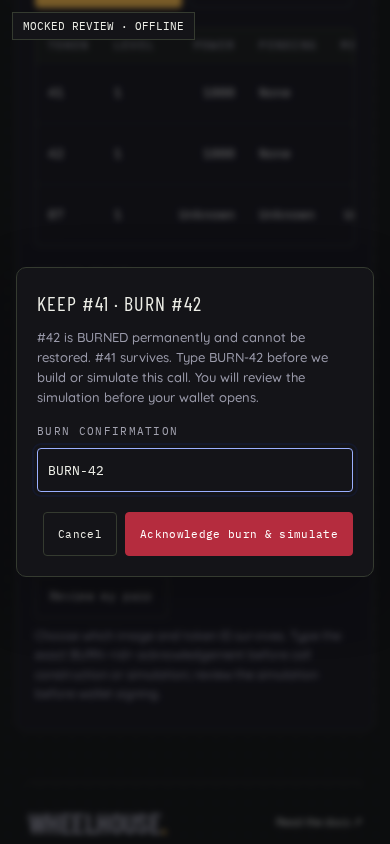
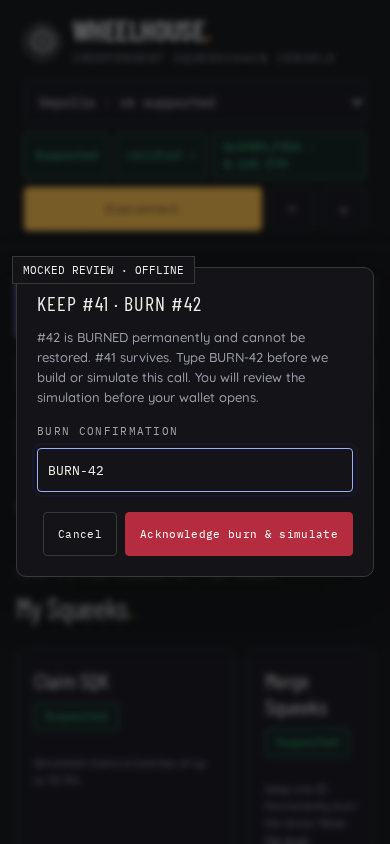
Record Phase 0 live pass and polish mobile review layouts

diff --git a/web/app.js b/web/app.js
@@ -268,7 +268,7 @@ export function mount({ doc = document, win = window, adapterFactory, fetcher = 
     renderToolOptions();
     void refreshTelemetry();
     if (!state.adapter) {
-      showBanner(getProfile(state.profileKey).notes + (state.busy ? " A prior wallet request may still complete; check that wallet before retrying." : ""), "warn");
+      if (state.busy) showBanner("A prior wallet request may still complete; check that wallet before retrying.", "warn");
       return;
     }
     await refreshAll();
@@ -280,7 +280,12 @@ export function mount({ doc = document, win = window, adapterFactory, fetcher = 
     $("not-deployed").classList.toggle("hidden", deployed);
     $("not-deployed-note").textContent = deployed ? "" : getProfile(state.profileKey).notes;
     for (const node of [el.connect, el.refresh, ...doc.querySelectorAll('[data-go], .rpc-settings')]) node.classList.toggle("hidden", !deployed);
-    if (!deployed) el.panels.forEach(panel => panel.classList.add("hidden"));
+    el.verified.classList.toggle('hidden', !deployed);
+    doc.querySelector('.network-strip').classList.toggle('hidden', !deployed);
+    if (!deployed) {
+      el.panels.forEach(panel => panel.classList.add("hidden"));
+      updateHeroVisibility(null);
+    }
     else selectTab(store.get("squeekchain:tab") ?? "overview");
   }
 
@@ -921,9 +926,15 @@ export function mount({ doc = document, win = window, adapterFactory, fetcher = 
     }
   }
 
+  function updateHeroVisibility(tab) {
+    const show = tab === 'overview' && Boolean(getProfile(state.profileKey).addresses);
+    for (const node of doc.querySelectorAll('.hero, .page-intro')) node.classList.toggle('hidden', !show);
+  }
+
   // ── tabs + wiring ─────────────────────────────────────────────────────────
   function selectTab(name) {
     if (!el.panels.some(p => p.dataset.panel === name)) name = "overview";
+    updateHeroVisibility(name);
     el.tabs.forEach((t) => t.setAttribute("aria-selected", String(t.dataset.tab === name)));
     el.panels.forEach((p) => p.classList.toggle("hidden", p.dataset.panel !== name));
     store.set("squeekchain:tab", name);
@@ -1041,8 +1052,7 @@ export function mount({ doc = document, win = window, adapterFactory, fetcher = 
   state.adapter = buildAdapter(state.profileKey);
   renderNetworkPlaceholder();
   renderDeploymentVisibility();
-  if (!state.adapter) showBanner(getProfile(state.profileKey).notes, "warn");
-  else refreshAll().then(() => { if (!destroyed) renderToolOptions(); });
+  if (state.adapter) refreshAll().then(() => { if (!destroyed) renderToolOptions(); });
   void refreshTelemetry();
   renderActivity(activity.list());
   void activity.refresh();

diff --git a/web/styles.css b/web/styles.css
@@ -492,3 +492,33 @@ footer > p.label { font-size: var(--sqk-caption-size); letter-spacing: .03em; }
 .toasts { max-width: min(380px, calc(100vw - 32px)); }
 .toast { overflow-wrap: anywhere; }
 .modal-box [for="modal-input"] { display: block; margin-top: var(--sqk-s2); }
+
+/* Review polish: deterministic control rows, compact task views, readable token cards. */
+.header-links, .header-badges, .wallet-controls, .wallet-control { display: flex; align-items: center; gap: 8px; }
+.header-badges { min-width: 0; }
+.wallet-control { min-width: 0; }
+.hero p { max-width: 50ch; }
+@media (max-width: 760px) {
+  .topbar { gap: 12px; }
+  .toolbar { display: grid; grid-template-columns: minmax(0, 1fr); gap: 8px; width: 100%; }
+  .header-links { display: none; }
+  #profile-select { width: 100%; max-width: none; }
+  .header-badges { display: grid; grid-template-columns: auto auto minmax(0, 1fr); align-items: stretch; gap: 6px; }
+  .header-badges .chip { min-width: 0; max-width: 100%; display: flex; align-items: center; }
+  .wallet-controls { display: grid; grid-template-columns: minmax(0, 1fr) 44px 44px; align-items: end; gap: 8px; }
+  .wallet-controls:has(#btn-refresh.hidden) { grid-template-columns: minmax(0, 1fr) 44px; }
+  .wallet-control { display: flex; flex-direction: column; align-items: stretch; gap: 4px; }
+  #wallet-chip { white-space: normal; overflow-wrap: anywhere; }
+  #btn-connect { justify-content: center; }
+  .wallet-controls > .btn.icon { width: 44px; height: 44px; padding: 0; }
+}
+@media (max-width: 599px) {
+  .table-wrap:has(table[data-component="Table"]) { overflow: visible; border: 0; }
+  table[data-component="Table"], table[data-component="Table"] tbody { display: block; width: 100%; }
+  table[data-component="Table"] thead { position: absolute; width: 1px; height: 1px; overflow: hidden; clip-path: inset(50%); }
+  table[data-component="Table"] tbody tr { display: grid; grid-template-columns: repeat(2, minmax(0, 1fr)); border: 1px solid var(--sqk-line); border-radius: var(--sqk-r-panel); margin-bottom: 12px; overflow: hidden; background: var(--sqk-panel-alt); }
+  table[data-component="Table"] td { display: flex; flex-direction: column; align-items: flex-start; gap: 4px; min-width: 0; white-space: normal; overflow-wrap: anywhere; text-align: left; padding: 10px 12px; }
+  table[data-component="Table"] td::before { content: attr(data-label); color: var(--sqk-gray-lit); font-size: var(--sqk-caption-size); text-transform: uppercase; letter-spacing: .04em; }
+  table[data-component="Table"] td:first-child { grid-column: 1 / -1; font-size: 20px; background: var(--sqk-bg-raised); }
+  table[data-component="Table"] tbody tr:hover { background: var(--sqk-panel-alt); }
+}

diff --git a/web/index.html b/web/index.html
@@ -27,15 +27,16 @@
         </div>
       </div>
       <div class="toolbar">
-        <a class="header-link" href="https://squeekchain.com" target="_blank" rel="noreferrer">Squeekchain ↗</a>
-        <a class="header-link" href="https://docs.squeekchain.com" target="_blank" rel="noreferrer">Docs ↗</a>
+        <div class="header-links"><a class="header-link" href="https://squeekchain.com" target="_blank" rel="noreferrer">Squeekchain ↗</a>
+        <a class="header-link" href="https://docs.squeekchain.com" target="_blank" rel="noreferrer">Docs ↗</a></div>
         <select aria-label="Network deployment" id="profile-select" title="Deployment"></select>
-        <span class="chip ok" id="profile-status" role="status" aria-live="polite">Supported</span>
+        <div class="header-badges"><span class="chip ok" id="profile-status" role="status" aria-live="polite">Supported</span>
         <span class="chip" id="verified-chip" role="status" aria-live="polite">verifying…</span>
-        <span class="chip" id="wallet-chip">not connected</span>
-        <button class="btn btn-primary" id="btn-connect">Connect wallet</button>
+        <span class="chip" id="wallet-chip">not connected</span></div>
+        <div class="wallet-controls"><div class="wallet-control">
+        <button class="btn btn-primary" id="btn-connect">Connect wallet</button></div>
         <button class="btn icon" id="btn-theme" type="button" title="Switch to dark theme" aria-label="Toggle theme" aria-pressed="false">☾</button>
-        <button class="btn icon" id="btn-refresh" title="Refresh" aria-label="Refresh">↻</button>
+        <button class="btn icon" id="btn-refresh" type="button" title="Refresh" aria-label="Refresh">↻</button></div>
       </div>
     </header>
 
@@ -45,7 +46,7 @@
         <div class="hero-copy">
           <span class="eyebrow">YOUR SQUEEKS. YOUR CONTROLS.</span>
           <h1 id="hero-title">A little wheel.<br>A whole <em>ecosystem.</em></h1>
-          <p>The hamster does the work. You take it from here.<br>Explore the network, manage your Squeeks, and make<br class="desktop-break"> every turn count.</p>
+          <p>The hamster does the work. You take it from here. Explore the network, manage your Squeeks, and make every turn count.</p>
           <div class="row hero-actions"><button class="btn btn-primary" data-go="holdings">Explore my Squeeks <span>↗</span></button><a class="text-link" href="https://squeekchain.com/genesis" target="_blank" rel="noreferrer">Discover Genesis ↗</a></div>
           <span class="hero-footnote"><span class="tiny-wheel">◎</span> Hamster-powered. Wallet-signed. Always yours.</span>
         </div>

diff --git a/web/components.js b/web/components.js
@@ -44,19 +44,19 @@ export function Stat(node) {
 }
 export function Table({ head, body, columns, rows, cell, caption = 'Squeek holdings at the verified snapshot' }) {
   const doc = body.ownerDocument, table = body.closest('table');
-  table.dataset.component = 'Table';
+  table.dataset.component = 'Table'; table.setAttribute('role', 'table'); body.setAttribute('role', 'rowgroup');
   if (!table.caption) { const node = table.createCaption(); node.className = 'sr-only'; node.textContent = caption; }
-  const heading = doc.createElement('tr');
+  const heading = doc.createElement('tr'); heading.setAttribute('role', 'row');
   for (const column of columns) {
-    const node = doc.createElement('th'); node.scope = 'col'; node.textContent = column.label;
+    const node = doc.createElement('th'); node.setAttribute('role', 'columnheader'); node.scope = 'col'; node.textContent = column.label;
     if (column.num) node.className = 'num';
     heading.append(node);
   }
   head.replaceChildren(heading);
   body.replaceChildren(...rows.map(row => {
-    const node = doc.createElement('tr');
+    const node = doc.createElement('tr'); node.setAttribute('role', 'row');
     for (const column of columns) {
-      const td = doc.createElement('td');
+      const td = doc.createElement('td'); td.dataset.label = column.label; td.setAttribute('role', 'cell');
       if (column.num) td.className = 'num';
       const content = cell(row, column);
       if (content?.nodeType) td.append(content); else td.textContent = valueText(content);

diff --git a/docs/STATUS.md b/docs/STATUS.md
@@ -4,7 +4,9 @@
 
 ## Phase plan and pre-merge qualification gate
 
-**Phase 0: Offline audit complete. Live qualification deferred to the pre-merge gate.** Phase 0 is **not fully complete** and no live pass is claimed. Per the updated plan, live qualification does not block Phase 1.
+**Phase 0: complete.** The opted-in **thewheel** live gate [run **41618128325**](https://github.com/CryptoExplor/Squeekchain-console/actions/runs/41618128325) passed on **`dd0afff7a88250d5d8aca88427ffe449c9e387c4`**. GitHub metadata independently confirms the exact head SHA, successful live-read step, public RPC probe, Chromium setup and artifact upload. [Qualification evidence](audit/live-qualification-run-41618128325.json) records the run, job and artifact IDs. Artifact contents were not downloaded; no specific block/hash/latency metrics are claimed.
+
+This qualifies **dd0afff**, not the subsequent screenshot-polish head. The user will rerun `run-live` on the new head before merge. **PR #2 remains open/draft**; manual browser review and final-head qualification are not waived.
 
 **Phase 1 implementation is ready for review on the same branch and PR #2**: Wheelhouse branding, the light design system and safety fixes. Preserve the existing architecture and every approved safety rule; do not restart or create another phase PR.
 
@@ -14,13 +16,21 @@
 | Wheelhouse branding and light design system | Continued with a consolidated neutral/gold/blue token palette, independent-console wordmark subtitle, readable 11px operational captions, semantic primary/danger controls, accessible theme state and matching browser chrome colors. Twenty-five mocked Chromium checks pass, including the 16-state review gallery, light/dark component contrast and focus; final human browser review is pending. See [design contract](DESIGN.md). |
 | Approved safety fixes | Existing capability gates, same-block graph/two-peer verification, explicit BURN confirmation, fresh simulation and wallet-only signing, profile cancellation/isolation, persistent Activity, API hint validation and key isolation remain unchanged. |
 
-**At the end of Phase 1**, the user will re-trigger `run-live` for the intended final PR head and manually check the app in their browser before merge. The pre-merge live gate must pass; offline tests, SDK probes and manual review do not substitute for that gate. The agent will not retry `test:live` in the sandbox or apply the label. PR #2 remains open/draft/WIP. After each push, report the commit, changes and offline results.
+**After this review polish**, the user will re-trigger `run-live` for the intended final PR head and manually check the app in their browser before merge. The pre-merge live gate must pass; offline tests, SDK probes and manual review do not substitute for that gate. The agent will not retry `test:live` in the sandbox or apply the label. PR #2 remains open/draft/WIP. After each push, report the commit, changes and offline results.
 
 ### Historical live evidence (not qualification)
 
 The historical real-browser `npm run test:live` check was attempted once after the RPC/discovery load fixes and failed before contract verification: all three public RPC probes in the **old** endpoint list returned `Failed to fetch`. This is not proof of rate limiting, CORS rejection, TLS failure, current identity mismatch, a frozen frontier, or transaction failure. No live reads qualified in that sandbox attempt and no transactions were submitted. The subsequent user-reported SDK successes below are partial live evidence, not a completed Playwright qualification.
 
-Evidence: [`audit/live-qualification-2026-11-02.json`](audit/live-qualification-2026-11-02.json). The earlier local-run plan is now superseded by the explicit-opt-in **thewheel** CI gate below. Retain successful artifacts from the opted-in live job for the intended final source SHA at the pre-merge gate; do not mark Phase 0 fully complete before live qualification. The historical jsdom smoke failure is not retried here. Public RPC availability is not a Phase 1 blocker.
+Evidence: [`audit/live-qualification-2026-11-02.json`](audit/live-qualification-2026-11-02.json). The earlier local-run plan is now superseded by the explicit-opt-in **thewheel** CI gate below. The successful dd0afff CI run above now completes Phase 0. Retain its qualification artifacts; a later head requires its own pre-merge rerun. The historical jsdom smoke failure is not retried here. Public RPC availability is not a Phase 1 blocker.
+
+## Screenshot review polish
+
+- At 390px the profile select is full width, the badges share one row, and wallet/theme/refresh controls share an aligned row; theme/refresh retain 44px icon buttons and accessible labels. The layout also passes the existing 320px overflow checks.
+- The hero and introductory eyebrow appear only on Overview. Task tabs and the not-deployed Mainnet view do not repeat the hero. Hero paragraph copy wraps naturally, without hard `<br>` elements.
+- Below 600px, each holdings row becomes a labelled token card: all seven cells remain visible without horizontal clipping. Desktop keeps the table with scoped headers and explicit table/row/cell semantics.
+- Mainnet has one Not deployed badge and one deployment-status panel; the redundant verification badge, network strip, hero and repeated banner are hidden. The separate prior-wallet-request warning is retained when applicable; no action capability changes.
+- The screenshot-only MOCKED REVIEW ribbon is placed below the header, not over the wordmark. All 16 light/dark desktop/mobile screenshots are regenerated with geometry, card-cell visibility, one-badge/one-panel and hero-visibility assertions.
 
 ## Phase 1 finish checklist
 
@@ -28,10 +38,10 @@ Evidence: [`audit/live-qualification-2026-11-02.json`](audit/live-qualification-
 - **Unknown, never invented zero:** absent/nonfinite/unavailable values display literal **Unknown** in network, wallet, table and telemetry views. Known zero is still a valid reading. A missing paused flag is not shown as “no.” v6 Power and v9 Deposited are distinct fields, not a fallback pretending an absent power value is zero. Failed wallet refresh clears stale holdings/actions.
 - **Shell:** Wheelhouse wordmark in header/footer, profile select with separate Supported / Read-only · unverified / Not deployed badge, light-default saved theme toggle, and explicit **independent community console · not affiliated with Squeekchain** footer. Live verification status remains separate from profile support status.
 - **Review gallery:** [16 committed mocked Chromium screenshots](screenshots/README.md): light/dark × 1280px/390px × Overview/Wallet/Merge dialog/Mainnet-not-deployed. Every capture uses synthetic fixtures; no live qualification, contract simulation, signing or real wallet submission. The PR description links the gallery and individual images. Regenerate only with explicit `UPDATE_SCREENSHOTS=1 npm run test:browser`; ordinary CI saves captures to ignored test output.
-- **JavaScript size:** **146,820 gzip bytes (146.8 kB / 143.4 KiB)**, summed across all five independently gzipped dist JS files using Node's default gzip level. Under the **200,000-byte** budget, now checked at build time. [Per-file report](audit/phase1-js-size.json); `dist/` remains ignored.
+- **JavaScript size:** **146,982 gzip bytes (147.0 kB / 143.5 KiB)**, summed across all five independently gzipped dist JS files using Node's default gzip level. Under the **200,000-byte** budget, now checked at build time. [Per-file report](audit/phase1-js-size.json); `dist/` remains ignored.
 - **Final offline validation:** all **11** `npm test` scripts, build/static parity/size budget, all **25** mocked Chromium tests, and `git diff --check` pass. Wire request budgets remain **22 cold / 12 warm / 15 wallet**.
 
-**Phase 1 ready for review**, not approval to merge. PR #2 remains open/draft. All approved safety rules and the opt-in live workflow are unchanged. No sandbox `test:live`, label operation, keeper activation or transaction submission was performed. User-triggered live qualification at the intended final head and manual browser review are still required before merge; Phase 0 is not fully complete.
+**Phase 1 ready for review**, not approval to merge. PR #2 remains open/draft. All approved safety rules and the opt-in live workflow are unchanged. No sandbox `test:live`, label operation, keeper activation or transaction submission was performed. User-triggered live qualification at the intended final head and manual browser review are still required before merge; Phase 0 is complete based on the qualified dd0afff head.
 
 ## Public RPC availability follow-up
 
@@ -43,7 +53,7 @@ Public endpoints change often; configured roles are availability preferences, no
 - Run **`npm run rpc:probe`** locally for a per-endpoint table: chain ID, a head-minus-12 block/hash, the mining EIP-1967 implementation slot at that block, and an inclusive 10k-block NFT Transfer log query. Requests time out after 15 seconds. Each capability reports independently; a log failure does not disqualify an otherwise healthy snapshot/state peer. This Node diagnostic does not test browser CORS, peer agreement or the full graph and is **not Phase 0 qualification**.
 - Offline regression coverage uses the reported `4444: pruned history unavailable`, `historical state unavailable`, `range too large`, `35: chain is not available on free plan` and `forbidden` payloads; asserts unchanged-range endpoint failover before chunk shrinking, custom/wallet behavior and trust-stop behavior.
 
-**Live qualification is deferred to the pre-merge gate**, not a Phase 1 blocker. The replacement list still awaits a green opted-in **thewheel** live job. The old failed evidence is retained, not relabeled as a pass.
+**The replacement RPC list passed the real-browser gate on dd0afff in run 41618128325.** The screenshot-polish head still needs the user-triggered rerun before merge. The old failed evidence is retained, not relabeled as a pass.
 
 ## User-reported partial live results and follow-ups
 
@@ -62,21 +72,21 @@ The v6 panel now displays its live settlement frontier and a snapshot-scoped no-
 
 README documents the linux-arm64 Chromium CDN 403 workaround: use x64 or an already-installed supported local Chrome via **`PLAYWRIGHT_CHROMIUM_CHANNEL=chrome npm run test:live`** (`channel: 'chrome'`), or the existing executable-path override. The Chrome-channel config is provided; local Chrome itself was not available/tested in this sandbox.
 
-**Phase 0 offline audit is complete; live qualification remains deferred to the pre-merge gate.** PR #2 stays open/draft/WIP while Phase 1 proceeds.
+**Phase 0 is complete: offline audit plus live qualification on dd0afff in run 41618128325.** PR #2 stays open/draft during screenshot-review polish and the new-head rerun.
 
-## Opt-in CI live gate (user re-triggers at the end of Phase 1)
+## Opt-in CI live gate (passed on dd0afff; user re-triggers for the polish head)
 
 Added **thewheel** (`.github/workflows/live.yml`), triggered by **`workflow_dispatch` or `pull_request: types: [labeled]`**, with the live job gated on explicit dispatch or the event's **`run-live`** label. Other labels skip the job; pushes/PR synchronization never run the live tests automatically. It uses `ubuntu-latest`, Node 22 from `.nvmrc`, a **15-minute** timeout and read-only repository permissions; runs `npm ci`, Chromium install with OS dependencies, `rpc:probe`, then `test:live`; and always attempts to upload Playwright HTML/report data plus fresh `live-qualification/live-qualification.json` evidence. No configured secrets or keeper/signing variables are used. Empty/skipped/incomplete suites cannot qualify; failures are not marked continue-on-error. The old non-blocking live option was removed from ordinary offline CI to leave one clearly named manual live gate.
 
-No sandbox `test:live` retry was performed for this change. Its last blocked attempt is preserved in [`audit/live-qualification-2026-11-03.json`](audit/live-qualification-2026-11-03.json); the latest user-reported SDK verification passed at block **12050470** in **1.6 seconds**, frontier **1973**, but did not include a full Playwright live-suite pass.
+No sandbox `test:live` retry was performed for this change. Its last blocked attempt is preserved in [`audit/live-qualification-2026-11-03.json`](audit/live-qualification-2026-11-03.json); the earlier user-reported SDK verification passed at block **12050470** in **1.6 seconds**, frontier **1973**, but did not include a full Playwright live-suite pass. The later successful CI run 41618128325 supplies that qualification.
 
 The workflow can now run directly from **PR #2 by adding `run-live`**; no default-branch bootstrap or WIP merge is required for that trigger. `actions/checkout` pins `github.event.pull_request.head.sha` on PR events (selected event SHA on dispatch). Both the initial JSON and live reporter use **`LIVE_SOURCE_COMMIT`** set to that exact head SHA, not the PR merge-commit `GITHUB_SHA`. If the explicit source variable is absent, the reporter uses checked-out HEAD (or unknown if Git is unavailable), never the synthetic merge-commit `GITHUB_SHA`. Read-only permissions and concurrency group **`thewheel-live-sepolia`** are unchanged; **no `pull_request_target`** or secrets are used.
 
-The user will remove/re-add the label at the end of Phase 1; the agent has not labeled/dispatched or rerun live tests. Qualify the intended final PR head before merge. **Live qualification remains deferred, not passed**; a skipped job is not qualification. No automatic phase transition is performed by the workflow. Actions-tab `workflow_dispatch` remains available only once the workflow exists on the default branch.
+The user triggered the successful dd0afff run and will remove/re-add the label for the polish head; the agent has not labeled/dispatched or rerun live tests. **Qualification passed for dd0afff, and the intended final PR head must be requalified before merge**; a skipped job is not qualification. No automatic phase transition is performed by the workflow. Actions-tab `workflow_dispatch` remains available only once the workflow exists on the default branch.
 
 ## Failed live gate 41606508624: diagnostics hardening
 
-The [run on `be43b9d`](https://github.com/CryptoExplor/Squeekchain-console/actions/runs/41606508624) failed at the live step; GitHub run metadata confirms build/setup/probe steps succeeded and artifacts uploaded. The user reports browser CORS/block agreement passed, then `squeek_network_status` returned an unknown RPC error; the same SDK call passed 3/3 in Node. **No live qualification is claimed; the gate is deferred until pre-merge.**
+The [run on `be43b9d`](https://github.com/CryptoExplor/Squeekchain-console/actions/runs/41606508624) failed at the live step; GitHub run metadata confirms build/setup/probe steps succeeded and artifacts uploaded. The user reports browser CORS/block agreement passed, then `squeek_network_status` returned an unknown RPC error; the same SDK call passed 3/3 in Node. **That failed run did not qualify; the later run 41618128325 passed on dd0afff.**
 
 Artifact **`thewheel-live-41606508624-1`** exists (ID `13217570445`), but this sandbox cannot download it: GitHub redirects artifact bytes to an unallowed Azure Blob host, and run logs to an unallowed results-receiver host; both requests ended in EOF. Therefore **`verified-network-snapshot.json` and `trace.zip` were not inspected**. The exact failing endpoint, RPC method, HTTP status, and CORS/429/JSON-RPC category remain **unknown**. An uploaded ZIP or the next gate's new diagnostic attachments is needed; do not claim a verified CI root cause.
 
@@ -90,7 +100,7 @@ The live assertions remain unchanged; the unmocked test now passively attaches *
 
 Only known fetch-failure TypeError messages (`Failed to fetch`, `Load failed`, `NetworkError when attempting to fetch resource.`, Node `fetch failed`, or `Network request failed`) qualify as transport availability. Other TypeErrors, including `Cannot read properties of undefined`, stop immediately through nested viem/HTTP/availability wrappers; they cannot trigger peer fallback, chain-ID re-probes or log-range shrinking. Snapshot peer selection and wallet probes also preserve this stop. Diagnostics label these as possible programming errors, not CORS failures, without serializing arbitrary provider messages.
 
-The offline first-endpoint regression injects the exact programming TypeError through the real viem HTTP transport, verifies the original cause survives, and asserts no next endpoint or identity re-probe is called. Existing cooldown and recognized fetch-failure fallback tests remain in place. Live qualification and manual review remain deferred until the end of Phase 1.
+The offline first-endpoint regression injects the exact programming TypeError through the real viem HTTP transport, verifies the original cause survives, and asserts no next endpoint or identity re-probe is called. Existing cooldown and recognized fetch-failure fallback tests remain in place. Live qualification subsequently passed on dd0afff; manual review and a live rerun for the new polish head remain pre-merge requirements.
 
 ## Implemented in place
 
@@ -112,7 +122,7 @@ The offline first-endpoint regression injects the exact programming TypeError th
 - `npm run test:browser`: **25 passing mocked Chromium tests**: light/saved theme and responsive layout; pending-RPC switch; three rapid switches; pending-simulation switch; late broadcast persistence/receipt tracking across a switch and reload; live-derived v6 frontier messaging/advancement/failure/switch/mobile behavior; bundled browser-wire state cooldown/TypeError failover; light/dark component contrast, readable captions, theme metadata/state and focus; 16 screenshot states; TokenCard keyboard/isolated-image/dialog focus behavior. RPC/adapters are mocked in this suite; it is not live qualification.
 - `npm run build`: passes; `dist/` output parity is a build check, not tracked generated content.
 - CI includes `npx playwright install --with-deps chromium`. The sandbox used an npm-distributed Chromium with bundled system libraries because browser download hosts are restricted; that temporary package/binary is not a project dependency or committed artifact.
-- `npm run test:live`: the **historical sandbox attempt failed / was unavailable**; the updated full suite is **pending opted-in CI qualification**. The user-reported SDK checks above do not mark it passed.
+- `npm run test:live`: the **historical sandbox attempt failed / was unavailable**; the full suite subsequently **passed opted-in CI run 41618128325 on dd0afff**. That is the Phase 0 evidence; the new polish head awaits its own rerun.
 
 ## Sources and historical evidence
 
@@ -129,4 +139,4 @@ Complete remote/local ABI byte-for-byte parity and a browser comparison with the
 
 ## Deferred / not claimed
 
-No mainnet deployment or v9 owner integration; no real signed transaction test; no closed-tab alerts, remote MCP, OG/alert Worker/D1, EIP-6963/WalletConnect integration or paid service provisioning. Official API/Genesis unavailability remains Unknown, including `launch_unconfigured`. No repository rename or PR closure. PR #2 stays WIP pending review and local live qualification.
+No mainnet deployment or v9 owner integration; no real signed transaction test; no closed-tab alerts, remote MCP, OG/alert Worker/D1, EIP-6963/WalletConnect integration or paid service provisioning. Official API/Genesis unavailability remains Unknown, including `launch_unconfigured`. No repository rename or PR closure. PR #2 stays WIP pending manual review and opted-in live qualification of the new polish head.

diff --git a/README.md b/README.md
@@ -2,11 +2,11 @@
 
 A static, browser-first Squeekchain holder console. The app is branded **Wheelhouse**; the GitHub repository remains **CryptoExplor/Squeekchain-console**.
 
-**Phase 1 ready for review — Phase 0 offline audit complete; live qualification deferred to the pre-merge gate, not passed.** Offline tests and browser layout/race tests are not proof of public RPC availability, current contract identities, or transaction success. See [status and validation](docs/STATUS.md).
+**Phase 1 screenshot polish ready for review — Phase 0 complete.** [Live run 41618128325](https://github.com/CryptoExplor/Squeekchain-console/actions/runs/41618128325) passed on `dd0afff`; the new polish head awaits the user-triggered pre-merge rerun. PR #2 remains draft. Offline tests and browser layout/race tests are not proof of public RPC availability, current contract identities, or transaction success. See [status and validation](docs/STATUS.md).
 
 The light-first Wheelhouse design uses local Barlow Condensed, Quicksand and IBM Plex Mono, warm neutral surfaces and gold/blue accents. It is an independent community console, not the official dApp. See the [design contract and offline checks](docs/DESIGN.md).
 
-[Review the 16 mocked screenshots](docs/screenshots/README.md): Overview, Wallet, Merge dialog and not-deployed Mainnet, each in light/dark at 1280px/390px. These are synthetic review fixtures, not live qualification. Shared DOM components live in `web/components.js`; missing values read **Unknown**, never an invented zero. All dist JavaScript totals **146,820 bytes gzipped**, below the build-enforced 200,000-byte budget ([breakdown](docs/audit/phase1-js-size.json)).
+[Review the 16 mocked screenshots](docs/screenshots/README.md): Overview, Wallet, Merge dialog and not-deployed Mainnet, each in light/dark at 1280px/390px. These are synthetic review fixtures, not live qualification. Shared DOM components live in `web/components.js`; missing values read **Unknown**, never an invented zero. All dist JavaScript totals **146,982 bytes gzipped**, below the build-enforced 200,000-byte budget ([breakdown](docs/audit/phase1-js-size.json)).
 
 ## Deployments and safety
 
@@ -42,7 +42,7 @@ npm run test:browser            # real Chromium, injected/offline data: componen
 npm run test:live               # real Chromium + public Sepolia RPCs; no RPC mocks or signatures
 ```
 
-The live test records public CORS RPC availability, two-peer block agreement and the published v6 graph/network snapshot. A failure must not be reported as a pass. The earlier sandbox attempt failed on the old three-endpoint list. That list has now been replaced following the user's real-network findings; the new list is **not yet live-qualified**. Run `npm run rpc:probe` and `npm run test:live` locally. The Node probe checks chain ID, a head-minus-12 block, the pinned mining implementation slot at that block, and a 10k-block NFT Transfer log query per endpoint. It does not establish browser CORS, two-peer agreement or full deployment verification. The normal CI workflow installs Chromium **and OS libraries** and runs offline/browser checks only. Live qualification is isolated in the explicit-opt-in **thewheel** workflow; a failed live check fails that manual gate.
+The live test records public CORS RPC availability, two-peer block agreement and the published v6 graph/network snapshot. A failure must not be reported as a pass. The earlier sandbox attempt failed on the old three-endpoint list. That list was replaced following the user's real-network findings; the real-browser gate **passed on dd0afff in run 41618128325**. That pass does not qualify later commits automatically. Run `npm run rpc:probe` and `npm run test:live` locally. The Node probe checks chain ID, a head-minus-12 block, the pinned mining implementation slot at that block, and a 10k-block NFT Transfer log query per endpoint. It does not establish browser CORS, two-peer agreement or full deployment verification. The normal CI workflow installs Chromium **and OS libraries** and runs offline/browser checks only. Live qualification is isolated in the explicit-opt-in **thewheel** workflow; a failed live check fails that manual gate.
 
 ### Opt-in CI qualification gate: thewheel
 
@@ -59,7 +59,7 @@ It uses read-only repository permissions and no configured secrets, wallet, keep
 
 Dispatch from the Actions tab still requires the workflow on the default branch; the label trigger avoids that bootstrap requirement. I.e. no merge of this WIP PR is needed to run the label gate. Adding subsequent commits does not rerun live RPC tests automatically: remove and re-add `run-live` to qualify a newer head.
 
-**Phase 0: Offline audit complete. Live qualification deferred to the pre-merge gate.** Phase 0 is not fully complete; the deferred live check does not block Phase 1. Before merge, the opted-in live job must pass for the intended final source SHA. A skipped job, successful SDK call, endpoint probe, offline test, or stale JSON artifact is not a substitute. The workflow does not write phase status back to the repository or enable signing/keeper behavior.
+**Phase 0 is complete**, supported by the offline audit and [successful live run 41618128325 on dd0afff](docs/audit/live-qualification-run-41618128325.json). The screenshot-polish head needs a new user-triggered live pass. Before merge, the opted-in live job must pass for the intended final source SHA. A skipped job, successful SDK call, endpoint probe, offline test, or stale JSON artifact is not a substitute. The workflow does not write phase status back to the repository or enable signing/keeper behavior.
 
 ### Live failure diagnostics
 

diff --git a/docs/DESIGN.md b/docs/DESIGN.md
@@ -22,7 +22,7 @@ The [official homepage](https://squeekchain.com/) was re-read on 2026-11-03. Its
 |---|---|
 | Panel | Enhances existing panels with labelled regions and explicit busy state; retains known readings while refreshing. |
 | Stat | Centralizes display formatting; null, absent, invalid or unavailable values become **Unknown**, while a genuine zero remains zero. |
-| Table | Wallet holdings with an accessible caption, scoped headers and a scroll container on narrow screens. Missing cells show Unknown. |
+| Table | Wallet holdings with an accessible caption, scoped headers and labelled per-token cards below 600px, with every cell visible; desktop retains the table. Missing cells show Unknown. |
 | TokenCard | Native button/keyboard interaction for gallery items; isolated `<img>`, never parsed SVG/metadata markup. |
 | ConfirmDialog | Shared confirmation/art focus trap and restoration. Merge requires exact typed BURN-<id> acknowledgement before building/simulating; subsequent simulation review/fresh verification/wallet-only signing remain unchanged. |
 | Toast | Text-only status/error notifications with status/alert semantics; long hashes wrap inside the mobile viewport. |
@@ -40,8 +40,12 @@ The header keeps live verification separate from the profile's support badge. Bo
 
 ## Distribution budget
 
-`npm run build` checks static parity (including the components module) and writes ignored `dist/js-size.json`. It independently gzips every dist JS response with Node's default gzip level and sums the result: **146,820 bytes**, under the **200,000-byte** budget. The build fails if this budget is reached/exceeded. Fonts/CSS are not counted as JavaScript. See the committed [per-file report](audit/phase1-js-size.json).
+`npm run build` checks static parity (including the components module) and writes ignored `dist/js-size.json`. It independently gzips every dist JS response with Node's default gzip level and sums the result: **146,982 bytes**, under the **200,000-byte** budget. The build fails if this budget is reached/exceeded. Fonts/CSS are not counted as JavaScript. See the committed [per-file report](audit/phase1-js-size.json).
 
-## Pre-merge review (deferred)
+## Pre-merge review (polish-head rerun pending)
 
-At the end of Phase 1, the user will review the actual app in their browser and re-trigger **run-live** on the intended final PR head. Keep PR #2 open/draft until review and pre-merge live qualification. No sandbox live retry or automatic gate trigger is part of design work.
+Phase 0 qualification passed in run 41618128325 on dd0afff. After screenshot polish, the user will review the actual app in their browser and re-trigger **run-live** on the intended final PR head. Keep PR #2 open/draft until review and pre-merge live qualification. No sandbox live retry or automatic gate trigger is part of design work.
+
+## Screenshot-review layout refinements
+
+The profile select occupies a full mobile row; badges share the next row, then wallet/theme/refresh controls align on a single row. Only Overview shows the full hero; body copy wraps naturally. Mainnet keeps one support badge and one status panel, without repeating the hero or deployment message. Mobile holdings below 600px use labelled token cards derived from the same table cells, not a second data/action source. Screenshot-only review ribbons sit below the header. These are presentation changes only; transaction/cancellation/verification rules remain intact.

diff --git a/docs/screenshots/README.md b/docs/screenshots/README.md
@@ -2,7 +2,7 @@
 
 **Synthetic fixtures only — not live qualification.** The captures use the actual Wheelhouse DOM, components, CSS and locally bundled fonts. Network/SDK/wallet adapters are injected by `test/review-fixture.mjs`. External requests are blocked. No contract simulation, wallet submission or signature occurs; merge images show the typed acknowledgement but stop before simulation. “Verified” in these images is fixture data, not a live attestation.
 
-All 16 states are tested by `test/screenshots.spec.mjs`. Light and dark are explicit choices; desktop viewport is **1280 × 960**, mobile is **390 × 844**, device scale 1. Overview, Wallet and Mainnet use full-page images; Merge uses a viewport image to keep the focused dialog readable. Animations are disabled, and local fonts finish loading before capture. Wallet token #87 deliberately has Unknown fields to show unavailable data, rather than fabricated zeroes.
+All 16 states were regenerated after the mobile/header/table/Mainnet review polish. Header control alignment, hero visibility, labelled card cells below 600px, single Mainnet status and review-ribbon position are asserted. All 16 states are tested by `test/screenshots.spec.mjs`. Light and dark are explicit choices; desktop viewport is **1280 × 960**, mobile is **390 × 844**, device scale 1. Overview, Wallet and Mainnet use full-page images; Merge uses a viewport image to keep the focused dialog readable. Animations are disabled, and local fonts finish loading before capture. Wallet token #87 deliberately has Unknown fields to show unavailable data, rather than fabricated zeroes.
 
 | View | Light · 1280px | Dark · 1280px | Light · 390px | Dark · 390px |
 |---|---|---|---|---|
@@ -17,4 +17,4 @@ To explicitly regenerate tracked images on a supported local Chromium installati
 UPDATE_SCREENSHOTS=1 npm run test:browser
 ```
 
-Ordinary `npm run test:browser` exercises/captures the same states under `test-results/`, **without overwriting these tracked review files**. The images are review evidence, not cross-platform pixel-diff baselines. Additional offline tests cover theme/contrast, cancellation/profile races, Activity persistence, RPC fallback, the shared TokenCard keyboard interaction and isolated artwork image, and typed burn guards. User manual browser review and the opted-in `run-live` gate remain required before merge; no sandbox `test:live` is part of this capture process.
+Ordinary `npm run test:browser` exercises/captures the same states under `test-results/`, **without overwriting these tracked review files**. The images are review evidence, not cross-platform pixel-diff baselines. Additional offline tests cover theme/contrast, cancellation/profile races, Activity persistence, RPC fallback, the shared TokenCard keyboard interaction and isolated artwork image, and typed burn guards. Phase 0 live qualification passed separately on dd0afff in run 41618128325; these images remain mocked. User manual browser review and an opted-in `run-live` rerun for the polish head remain required before merge; no sandbox `test:live` is part of this capture process.
